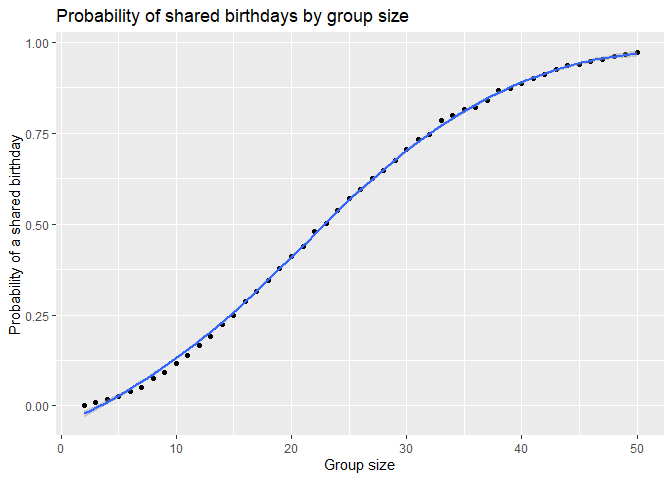
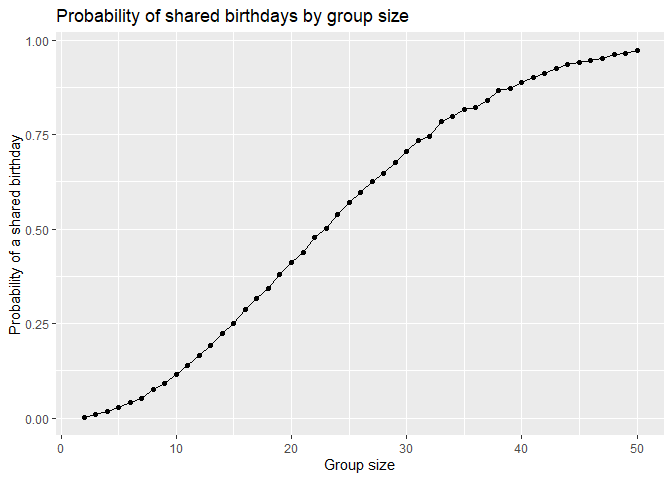
Problem 2: create a spaghetti plot and describe group differences

diff --git a/p8105_hw5_xc2859.md b/p8105_hw5_xc2859.md
@@ -66,15 +66,13 @@ birthday_probs =
 birthday_probs |> 
   ggplot(aes(x = group_size, y = probability)) + 
   geom_point() + 
-  geom_smooth() +
+  geom_path() +
   labs(
     title = "Probability of shared birthdays by group size", 
     x = "Group size", 
     y = "Probability of a shared birthday"
   )
 ```
-
-    ## `geom_smooth()` using method = 'loess' and formula = 'y ~ x'
 
 ![](p8105_hw5_xc2859_files/figure-gfm/unnamed-chunk-5-1.png)<!-- -->
 
@@ -269,3 +267,32 @@ The cleaned dataset contains 160 observations from 20 participants, with
 participant has outcome measurements recorded over 8 weeks, and each row
 represents one participant’s outcome measurement at a specific week. The
 4 variables include `subject_id`, `study_arm`, `week`, and `outcome`.
+
+**Create a spaghetti plot**
+
+``` r
+tidy_df |> 
+  ggplot(aes(
+    x = week, 
+    y = outcome, 
+    group = subject_id, 
+    color = study_arm
+  )) + 
+  geom_point() + 
+  geom_path() + 
+  facet_grid(~study_arm) + 
+  labs(
+    title = "Individual outcomes over time by study arm", 
+    x = "Week", 
+    y = "Outcome value", 
+    color = "Study arm"
+  )
+```
+
+![](p8105_hw5_xc2859_files/figure-gfm/unnamed-chunk-8-1.png)<!-- -->
+
+The plot shows that the outcomes of different study arms vary over time.
+In the control group, although there were variations among different
+individuals, the outcome values remained relatively unchanged throughout
+8 weeks. However, in the experimental group, participants showed an
+increasing trend in outcomes over time.
